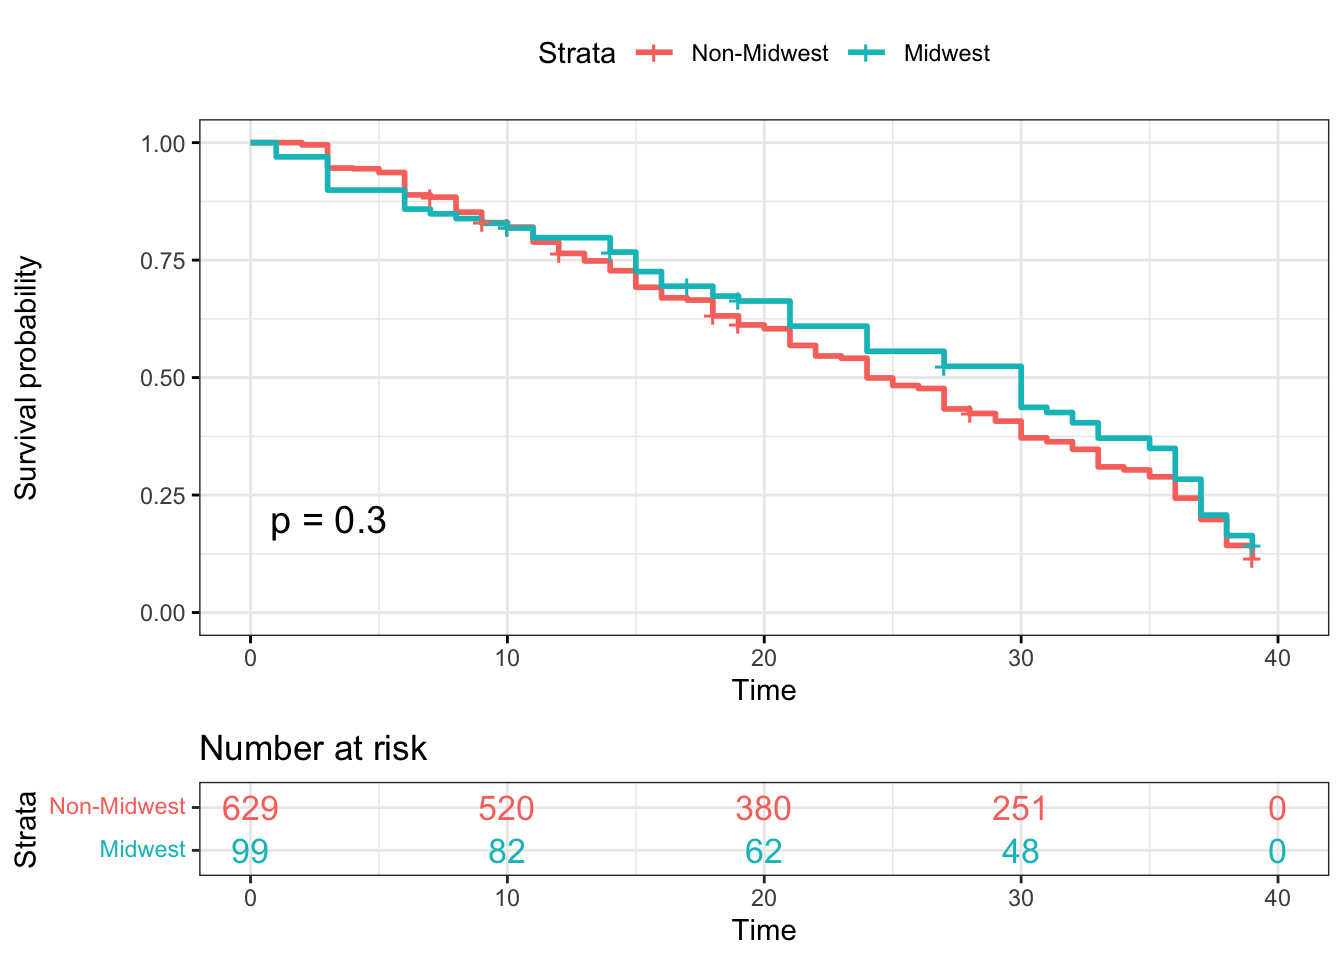
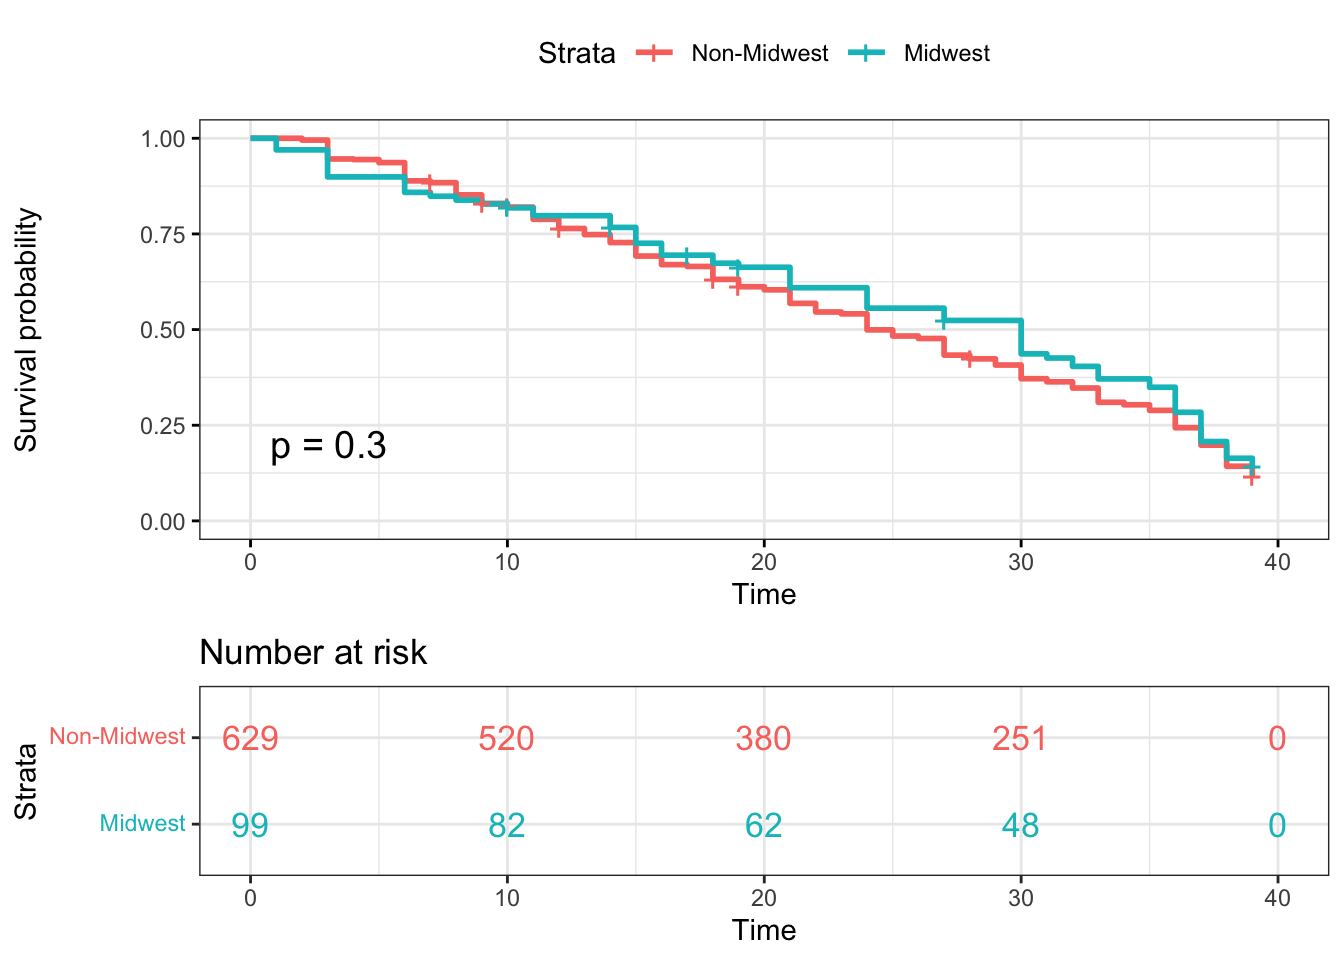
updated statistical analysis

diff --git a/stat.html b/stat.html
@@ -393,12 +393,13 @@ div.tocify {
 
 <div id="methodology" class="section level2">
 <h2>Methodology</h2>
-<p>For our project, we interest using Survival Analysis. Suppose that
-there is a true survival time, T, as well as a true censoring time, C.
-The survival time represents the time at which the event of interest
-occurs: in this dataset, the time (in days) at which participant is
-voted out. The censoring time is the time at which the participant drop
-out of the game show or survived until the last day of the show.</p>
+<p>For our project, we are interested in using Survival Analysis.
+Suppose that there is a true survival time, T, as well as a true
+censoring time, C. The survival time represents the time at which the
+event of interest occurs: in this dataset, the time (in days) at which a
+participant is voted out. The censoring time is the time at which a
+participant drops out of the game show or survived until the last day of
+the show.</p>
 <p>We observed the Survival Time T and Censoring Time C. Suppose there
 is a random variable Y</p>
 <p><span class="math display">\[Y = min(T,C)\]</span></p>
@@ -417,13 +418,13 @@ time. The status indicator as,</p>
 the true survival time, and <span class="math inline">\(\delta\)</span>
 = 0 if we observe the censoring.</p>
 <p>We use the Cox-propositional hazard model to evaluate the effect of
-several factors on survival time in Survivor Show. It allows us to
-examine how specified factors influence the rate of the event that we
-interested at a particular point in time. This rate is the hazard rate.
-Covariates are age, gender, poc, personality type, and region in this
-model. The Cox model is expressed by the hazard function denoted by
+several factors on survival time in Survivor. It allows us to examine
+how specified factors influence the rate of the event that we are
+interested in at a particular point in time. This rate is the hazard
+rate. Covariates are age, gender, poc, personality type, and region in
+this model. The Cox model is expressed by the hazard function denoted by
 h(t). Briefly, the hazard function can be interpreted as the risk of
-voted out at time t. It can be estimated as follow: <span
+voted out at time t. It can be estimated as follows: <span
 class="math display">\[h(t) = h_0(t)\exp(x_1\beta_1 + x_2\beta_2 +
 x_3\beta_3 + x_4\beta_4 + x_4\beta_5)\]</span> where,  </p>
 <ul>
@@ -438,7 +439,7 @@ class="math inline">\(x_3\)</span> is POC, , <span
 class="math inline">\(x_4\)</span> is personality type, and <span
 class="math inline">\(x_5\)</span> is region</li>
 <li>the coefficients <span class="math inline">\((\beta1, \beta2,
-\beta3, \beta4, \beta5)\)</span> measures the impact of covariates</li>
+\beta3, \beta4, \beta5)\)</span> measure the impact of covariates</li>
 <li><span class="math inline">\(h_0(t)\geq 0\)</span> is the baseline
 hazard function. It is the hazard function for an individual if all
 <span class="math inline">\((x_1, x_2, x_3, x_4, x_5)\)</span> are equal
@@ -446,11 +447,11 @@ to zero.</li>
 </ul>
 <p>Connection with the Log-Rank Test</p>
 <p>Suppose we have a single predictor <span
-class="math inline">\((p=1)\)</span>, which we assume to be binary. To
-determine whether there is a difference between the survival times of
-the obeservations in the group. For instance, we consider test to
-compare difference survival times between female and male. The null
-hypothesis is that the two groups have identical hazard functions, <span
+class="math inline">\((p=1)\)</span>, which we assume to be binary. We
+aim to determine whether there is a difference between the survival
+times of the observations in the group. For instance, we consider a test
+to compare difference survival times between females and males. The null
+hypothesis is that the two groups have identical hazard functions: <span
 class="math display">\[H_0: h_1(t) = h_2(t)\]</span></p>
 </div>
 <div id="result" class="section level2">
@@ -717,43 +718,35 @@ Region
 </table>
 <div id="hr-interpretations" class="section level4">
 <h4>HR interpretations:</h4>
-<ul>
-<li>As age increases in years, there is no difference in survival since
+<p>As age increases in years, there is no difference in survival since
 the hazard ratio is 1. We are 95% confident that the HR falls between
-0.99 to 1.01. However, the HR is not statistically significant.<br />
-<br />
-</li>
-<li>For gender, the HR value of 0.95 suggests that on average, under an
-exponential distribution, the survival time for male contestants is
-approximately at 5% lower risk of being voted out compared to female
-contestants (the reference category). We are 95% confident that the HR
-falls between 0.82 and 1.12. However, the HR is not statistically
-significant.<br />
-<br />
-</li>
-<li>For POC, the HR value of 0.89 would suggest that on average, under
-an exponential distribution, the survival time for White contestants is
-at 11% lower risk of being voted out compare to POC contestants (the
-reference category). We are 95% confident that the HR falls between 0.75
-and 1.06. However, the HR is not statistically significant.<br />
-<br />
-</li>
-<li>For personality type, the HR value of 1.07 would suggest that on
-average, under an exponential distribution, the survival time for
-introvert contestants is shorter compared to extrovert contestants (the
-reference category). We are 95% confident that the HR falls between 0.91
-- 1.25. However, the HR is not statistically significant.<br />
-<br />
-</li>
-<li>For region, Midwest is the reference category. However, most of
-these hazard ratios are not statistically significant, p-value &gt; 0.05
-(except South).
+0.9922 to 1.008. However, the HR is not statistically significant since
+the p-value of 0.998 &gt; 0.05.</p>
+<p>For the gender variable, the HR value of 0.96 would suggest that the
+survival time for Male contestants compared to Female contestants (the
+reference category) is longer. We are 95% confident that the HR falls
+between 0.82 and 1.12. However, the HR is not statistically significant
+since the p-value of 0.57 &gt; 0.05.</p>
+<p>For the POC variable, the HR value of 0.8881 would suggest that the
+survival time for White contestants compared to POC contestants (the
+reference category) is longer. We are 95% confident that the HR falls
+between 0.7456 and 1.058. However, the HR is not statistically
+significant since the p-value of 0.184 &gt; 0.05.</p>
+<p>For personality type, the HR value of 1.0631 would suggest that the
+survival time for Introvert contestants compared to Extrovert
+contestants (the reference category) is shorter. We are 95% confident
+that the HR falls between 0.9076 - 1.245. However, the HR is not
+statistically significant since the p-value of 0.448 &gt; 0.05.</p>
 <ul>
-<li>The HR value of 1 for Northeast suggests that the survival time for
-contestants from the NE is longer compared to contestants from the
+<li><p>For region, Midwest is the reference category. However, all of
+these hazard ratios are not statistically significant, p-value &gt;
+0.05.</p>
+<ul>
+<li>The HR value of 0.99 for Northeast suggests that the survival time
+for contestants from the NE is longer compared to contestants from the
 Midwest.<br />
 </li>
-<li>The HR value of 1.3 for the South suggests that the survival time
+<li>The HR value of 1.29 for the South suggests that the survival time
 for contestants from the South is shorter compared to contestants from
 the Midwest.<br />
 </li>
@@ -766,16 +759,16 @@ the Midwest.</li>
 </div>
 <div id="estimation-and-statistical-inference" class="section level2">
 <h2>Estimation and Statistical Inference</h2>
-<p>We use Kaplan-Meier Curve to estimate the survival function for
-contestants. Apply <code>ggsurvplot</code> function to draw the survival
-curves and calculate log-rank test p-value. The following plots are the
-estimated probability of survival for contestants in each group. Based
-on the log rank test results, most of the log-rank test p-values are not
-statistically significant at <span
+<p>We use Kaplan-Meier Curves to estimate the survival function for
+contestants. We apply the <code>ggsurvplot</code> function to draw the
+survival curves and calculate log-rank test p-value. The following plots
+are the estimated probability of survival for contestants in each group.
+Based on the log rank test results, most of the log-rank test p-values
+are not statistically significant at <span
 class="math inline">\(\alpha=0.05\)</span>. While we perform the
 log-rank test for contestants from Northeast and non-Northeast regions,
-the p-value = 0.5 which implies there is significant difference between
-Northeast and non-Northeast.</p>
+the p-value = 0.049, which implies there is significant difference
+between Northeast and non-Northeast contestants.</p>
 <div id="kaplan-meier-plotter-personality" class="section level3">
 <h3>Kaplan-Meier plotter-personality</h3>
 <pre class="r"><code>surv_model_per &lt;- survfit(Surv(time, status)~ survivor_data_final$personality_type_binary)
@@ -791,7 +784,7 @@ ggsurvplot(
   risk.table.col = &quot;strata&quot;,# Risk table color by groups
   legend.labs =
     c(&quot;Extrovert&quot;, &quot;Introvert&quot;),    # Change legend labels
-  risk.table.height = 0.25, # Useful to change when you have multiple groups
+  risk.table.height = 0.35, # Useful to change when you have multiple groups
   ggtheme = theme_bw()      # Change ggplot2 theme
 )</code></pre>
 <p><img src="stat_files/figure-html/unnamed-chunk-3-1.png" width="672" /></p>
@@ -813,7 +806,7 @@ ggsurvplot(
   risk.table.col = &quot;strata&quot;,# Risk table color by groups
   legend.labs =
     c(&quot;POC&quot;, &quot;White&quot;),    # Change legend labels
-  risk.table.height = 0.25, # Useful to change when you have multiple groups
+  risk.table.height = 0.35, # Useful to change when you have multiple groups
   ggtheme = theme_bw()      # Change ggplot2 theme
 )</code></pre>
 <p><img src="stat_files/figure-html/unnamed-chunk-4-1.png" width="672" /></p>
@@ -831,7 +824,7 @@ ggsurvplot(
   risk.table.col = &quot;strata&quot;,# Risk table color by groups
   legend.labs =
     c(&quot;female&quot;, &quot;male&quot;),    # Change legend labels
-  risk.table.height = 0.25, # Useful to change when you have multiple groups
+  risk.table.height = 0.35, # Useful to change when you have multiple groups
   ggtheme = theme_bw()      # Change ggplot2 theme
 )</code></pre>
 <p><img src="stat_files/figure-html/unnamed-chunk-5-1.png" width="672" /></p>
@@ -849,7 +842,7 @@ ggsurvplot(
   risk.table.col = &quot;strata&quot;,# Risk table color by groups
   legend.labs =
     c(&quot;Midwest&quot;, &quot;Northeast&quot;, &quot;South&quot;, &quot;West&quot;),    # Change legend labels
-  risk.table.height = 0.25, # Useful to change when you have multiple groups
+  risk.table.height = 0.5, # Useful to change when you have multiple groups
   ggtheme = theme_bw()      # Change ggplot2 theme
 )</code></pre>
 <p><img src="stat_files/figure-html/unnamed-chunk-6-1.png" width="672" /></p>
@@ -867,7 +860,7 @@ ggsurvplot(
   risk.table.col = &quot;strata&quot;,# Risk table color by groups
   legend.labs =
     c(&quot;Non-Northeast&quot;, &quot;Northeast&quot;),    # Change legend labels
-  risk.table.height = 0.25, # Useful to change when you have multiple groups
+  risk.table.height = 0.35, # Useful to change when you have multiple groups
   ggtheme = theme_bw()      # Change ggplot2 theme
 )</code></pre>
 <p><img src="stat_files/figure-html/unnamed-chunk-7-1.png" width="672" /></p>
@@ -885,7 +878,7 @@ ggsurvplot(
   risk.table.col = &quot;strata&quot;,# Risk table color by groups
   legend.labs =
     c(&quot;Non-South&quot;, &quot;South&quot;),    # Change legend labels
-  risk.table.height = 0.25, # Useful to change when you have multiple groups
+  risk.table.height = 0.35, # Useful to change when you have multiple groups
   ggtheme = theme_bw()      # Change ggplot2 theme
 )</code></pre>
 <p><img src="stat_files/figure-html/unnamed-chunk-8-1.png" width="672" /></p>
@@ -903,7 +896,7 @@ ggsurvplot(
   risk.table.col = &quot;strata&quot;,# Risk table color by groups
   legend.labs =
     c(&quot;Non-West&quot;, &quot;West&quot;),    # Change legend labels
-  risk.table.height = 0.25, # Useful to change when you have multiple groups
+  risk.table.height = 0.35, # Useful to change when you have multiple groups
   ggtheme = theme_bw()      # Change ggplot2 theme
 )</code></pre>
 <p><img src="stat_files/figure-html/unnamed-chunk-9-1.png" width="672" /></p>
@@ -921,7 +914,7 @@ ggsurvplot(
   risk.table.col = &quot;strata&quot;,# Risk table color by groups
   legend.labs =
     c(&quot;Non-Midwest&quot;, &quot;Midwest&quot;),    # Change legend labels
-  risk.table.height = 0.25, # Useful to change when you have multiple groups
+  risk.table.height = 0.35, # Useful to change when you have multiple groups
   ggtheme = theme_bw()      # Change ggplot2 theme
 )</code></pre>
 <p><img src="stat_files/figure-html/unnamed-chunk-10-1.png" width="672" /></p>
